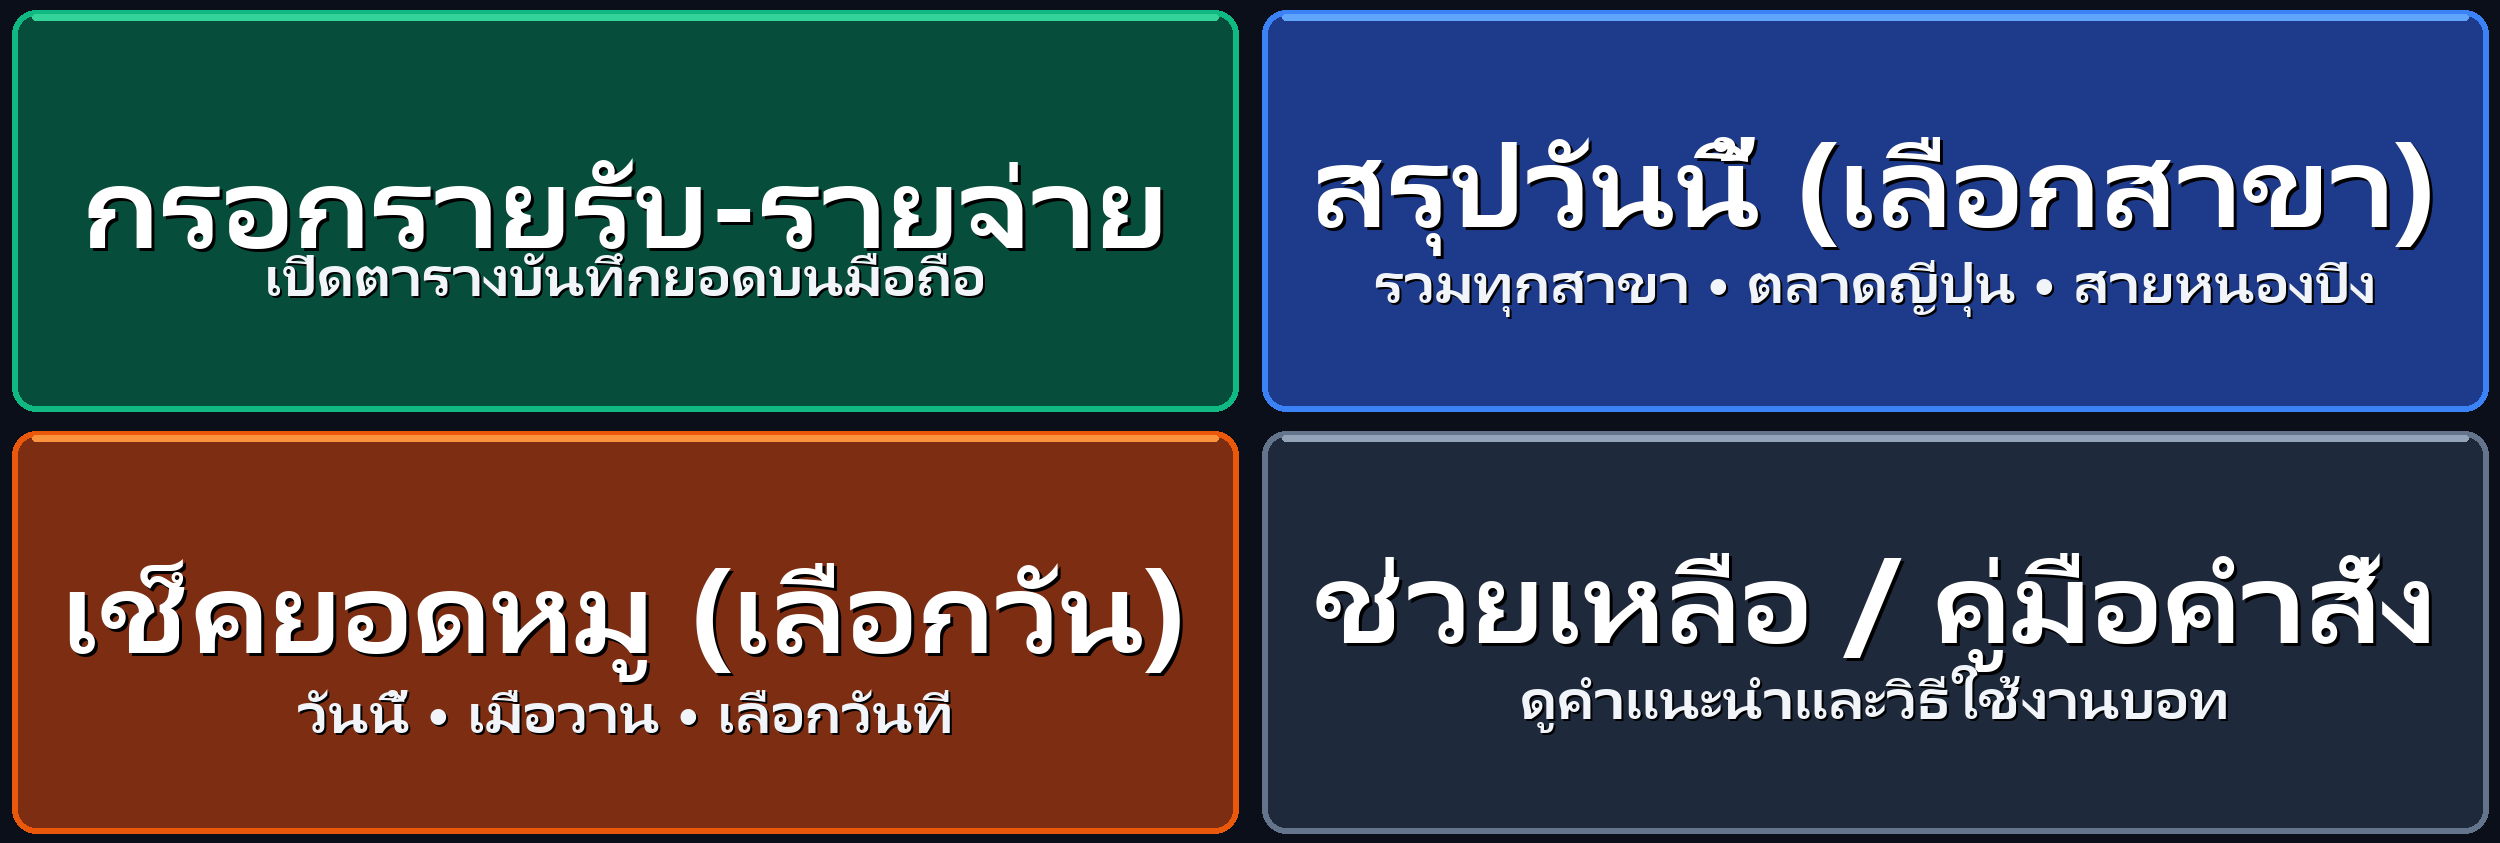
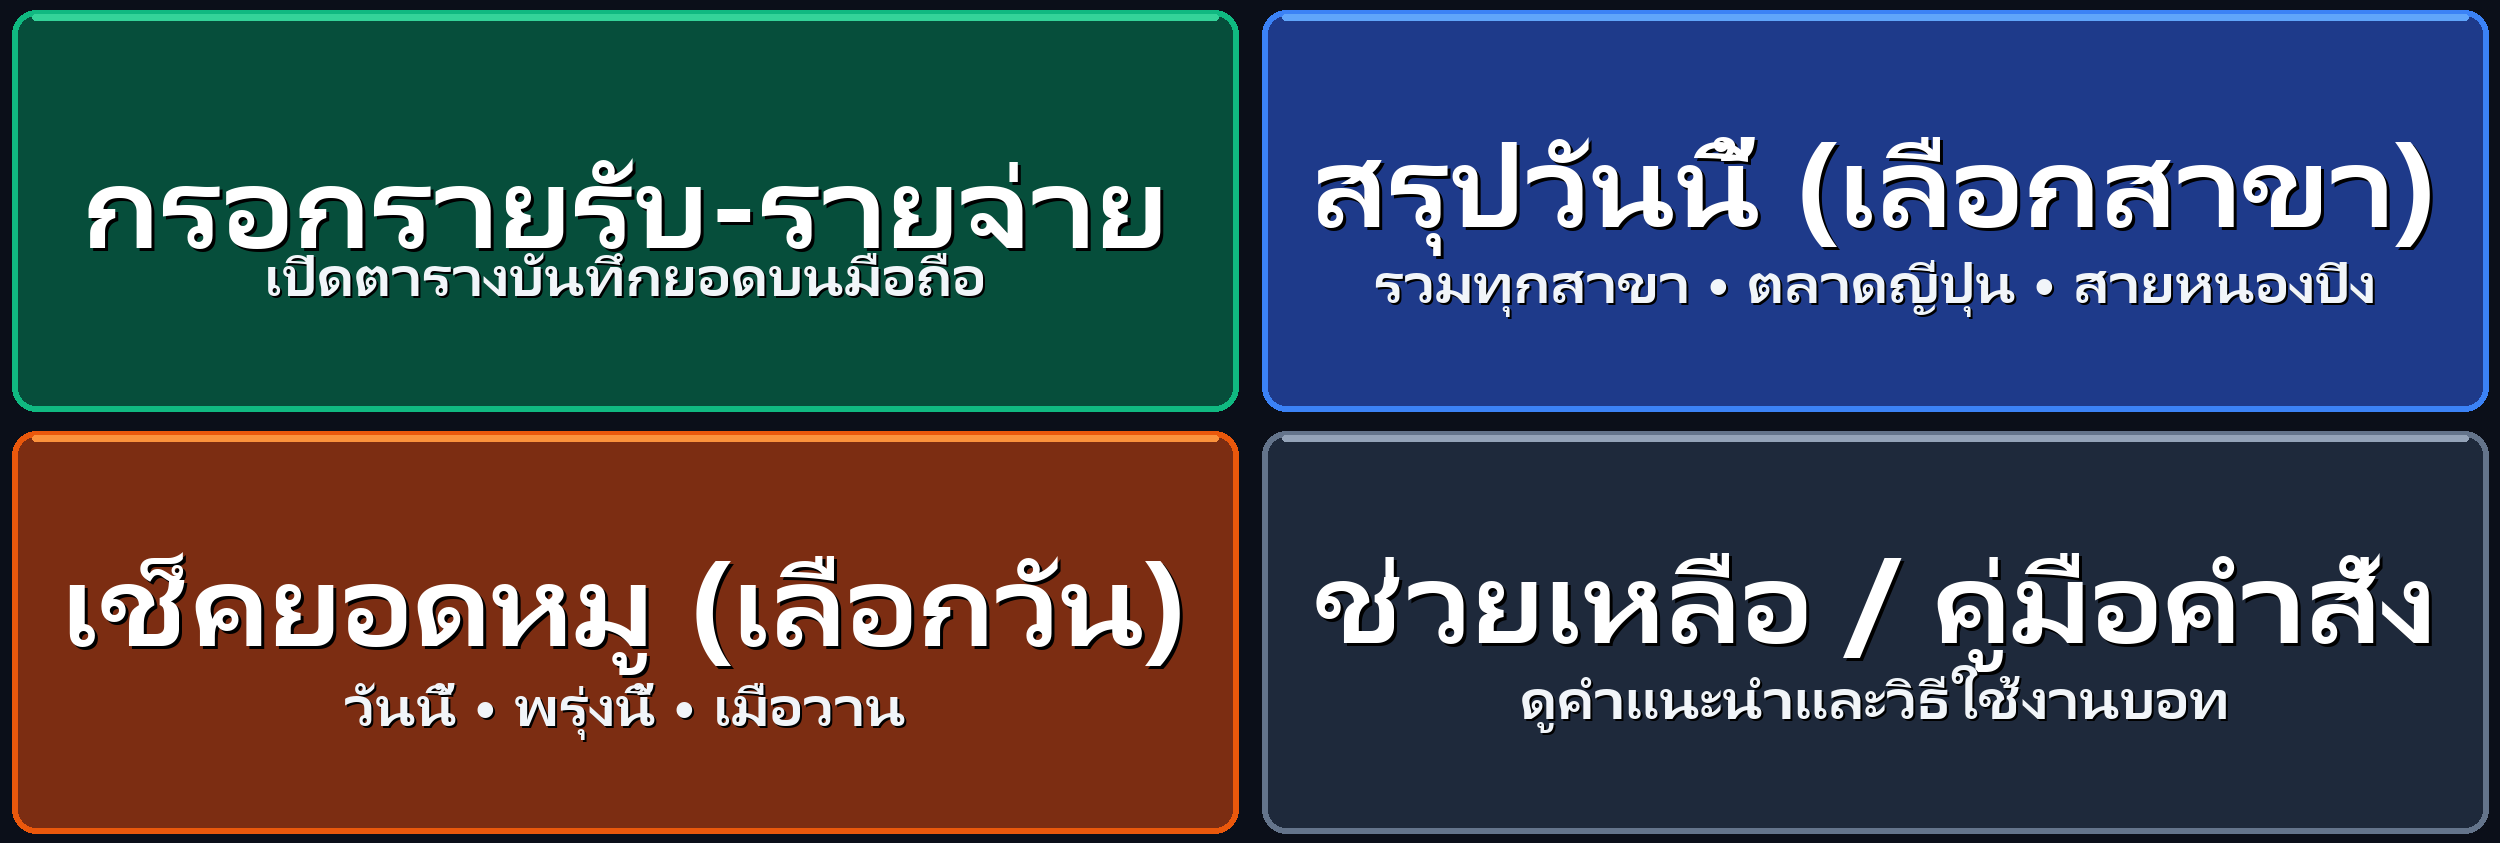
feat(pork): add tomorrow option to pork check card and richmenu subtitle

Changed region(s): [[0.0312, 0.6477, 0.468, 0.8944]]

diff --git a/src/lib/services/line-entry-form.service.ts b/src/lib/services/line-entry-form.service.ts
@@ -431,10 +431,12 @@ export function buildSummaryBranchSelectorCard(date: string = "") {
  * Interactive Flex Card to let user select a date when querying pork summary.
  */
 export function buildPorkDateSelectorCard(today: string = getTodayDateString()) {
+  const tomorrow = shiftDateString(today, 1);
   const yesterday = shiftDateString(today, -1);
   const twoDaysAgo = shiftDateString(today, -2);
 
   const todayLabel = formatDateThai(today);
+  const tomorrowLabel = formatDateThai(tomorrow);
   const yesterdayLabel = formatDateThai(yesterday);
   const twoDaysAgoLabel = formatDateThai(twoDaysAgo);
 
@@ -503,7 +505,38 @@ export function buildPorkDateSelectorCard(today: string = getTodayDateString()) 
               },
             ],
           },
-          // Option 2: เมื่อวาน
+          // Option 2: พรุ่งนี้
+          {
+            type: "box",
+            layout: "vertical",
+            backgroundColor: "#EFF6FF",
+            cornerRadius: "md",
+            paddingAll: "12px",
+            borderWidth: "1px",
+            borderColor: "#93C5FD",
+            action: {
+              type: "message",
+              label: "ยอดหมูพรุ่งนี้",
+              text: "สรุปหมู พรุ่งนี้",
+            },
+            contents: [
+              {
+                type: "text",
+                text: `🔮 ยอดหมูพรุ่งนี้ (${tomorrowLabel})`,
+                weight: "bold",
+                size: "sm",
+                color: "#1D4ED8",
+              },
+              {
+                type: "text",
+                text: "ดูพรีวิวและราคาหมูสำหรับวันพรุ่งนี้",
+                size: "xxs",
+                color: "#64748B",
+                margin: "xs",
+              },
+            ],
+          },
+          // Option 3: เมื่อวาน
           {
             type: "box",
             layout: "vertical",
@@ -534,7 +567,7 @@ export function buildPorkDateSelectorCard(today: string = getTodayDateString()) 
               },
             ],
           },
-          // Option 3: ย้อนหลัง 2 วัน
+          // Option 4: ย้อนหลัง 2 วัน
           {
             type: "box",
             layout: "vertical",

diff --git a/src/__tests__/line-entry-and-menu.test.ts b/src/__tests__/line-entry-and-menu.test.ts
@@ -77,8 +77,10 @@ describe("LINE Menu Redesign & Easy Data Entry (TDD)", () => {
 
       const jsonStr = JSON.stringify(card);
       expect(jsonStr).toContain("ยอดหมูวันนี้");
+      expect(jsonStr).toContain("ยอดหมูพรุ่งนี้");
       expect(jsonStr).toContain("ยอดหมูเมื่อวาน");
       expect(jsonStr).toContain("สรุปหมู วันนี้");
+      expect(jsonStr).toContain("สรุปหมู พรุ่งนี้");
       expect(jsonStr).toContain("สรุปหมู เมื่อวาน");
     });
   });

diff --git a/src/lib/services/line-richmenu.service.ts b/src/lib/services/line-richmenu.service.ts
@@ -14,7 +14,7 @@ export function getRichMenuDefinition() {
   return {
     size: { width: 2500, height: 843 },
     selected: true,
-    name: "ร้านครูตอม Main Menu v7 (Pork Date Selector)",
+    name: "ร้านครูตอม Main Menu v8 (Tomorrow Pork Option)",
     chatBarText: "📌 เมนูร้านครูตอม",
     areas: [
       // Tile 1: 📝 กรอกรายรับ-รายจ่าย (Top Left)

diff --git a/scripts/generate-richmenu.py b/scripts/generate-richmenu.py
@@ -26,7 +26,7 @@ def generate_rich_menu_image(output_path='public/richmenu.png'):
         },
         {
             'title': 'เช็คยอดหมู (เลือกวัน)',
-            'sub': 'วันนี้ • เมื่อวาน • เลือกวันที่',
+            'sub': 'วันนี้ • พรุ่งนี้ • เมื่อวาน',
             'bg': '#7c2d12',
             'border': '#ea580c',
             'accent': '#fb923c',
